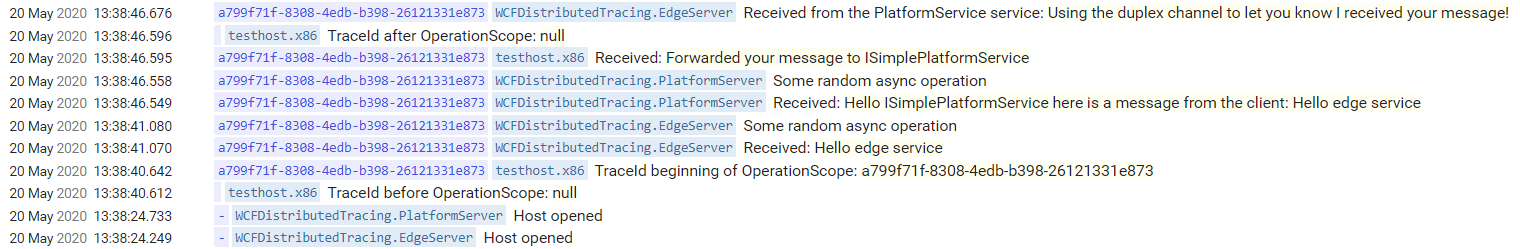
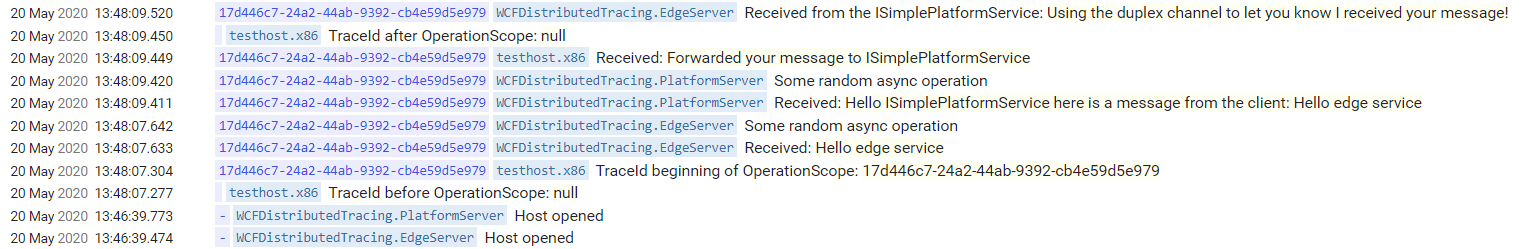
Documentation improved

diff --git a/WCFDistributedTracing.EdgeServer/SimpleEdgeService.cs b/WCFDistributedTracing.EdgeServer/SimpleEdgeService.cs
@@ -28,7 +28,7 @@ namespace WCFDistributedTracing.EdgeServer
         }
         public async Task EchoClient(string message)
         {
-            await Task.Run(() => Log.Information("Received from the PlatformService service: {Message}", message));
+            await Task.Run(() => Log.Information($"Received from the {nameof(ISimplePlatformService)}: {{Message}}", message));
         }
     }
 }

diff --git a/README.md b/README.md
@@ -9,7 +9,7 @@ This will result in the following output in Seq:
 
 ## Details
 
-### Application structure:
+### Application structure
 ![Diagram](./Documentation/Architecture.png)
 
 ### Async pattern
@@ -21,7 +21,7 @@ Since .Net 4.6.2 the OperationContext is maintained in Async scenarios. However 
 At the beginning of a trace a new OperationContext is created using an OperationContextScope. The default OperationContextScope cannot handle the async scenario in its Dispose logic. Therefore we included the implementation of [FlowingOperationContextScope]( https://stackoverflow.com/questions/18284998/pattern-for-calling-wcf-service-using-async-await/22753055#22753055) created by [noseratio](https://stackoverflow.com/users/1768303/noseratio)
 
 ### Duplex channel
-Duplex channels are supported. The interaction between the EdgeServer and the Platform server shows this.
+Duplex channels are supported. The interaction between the EdgeServer and the PlatformServer shows this.
 
 ## ToDo:
 * Multithreading unit test
